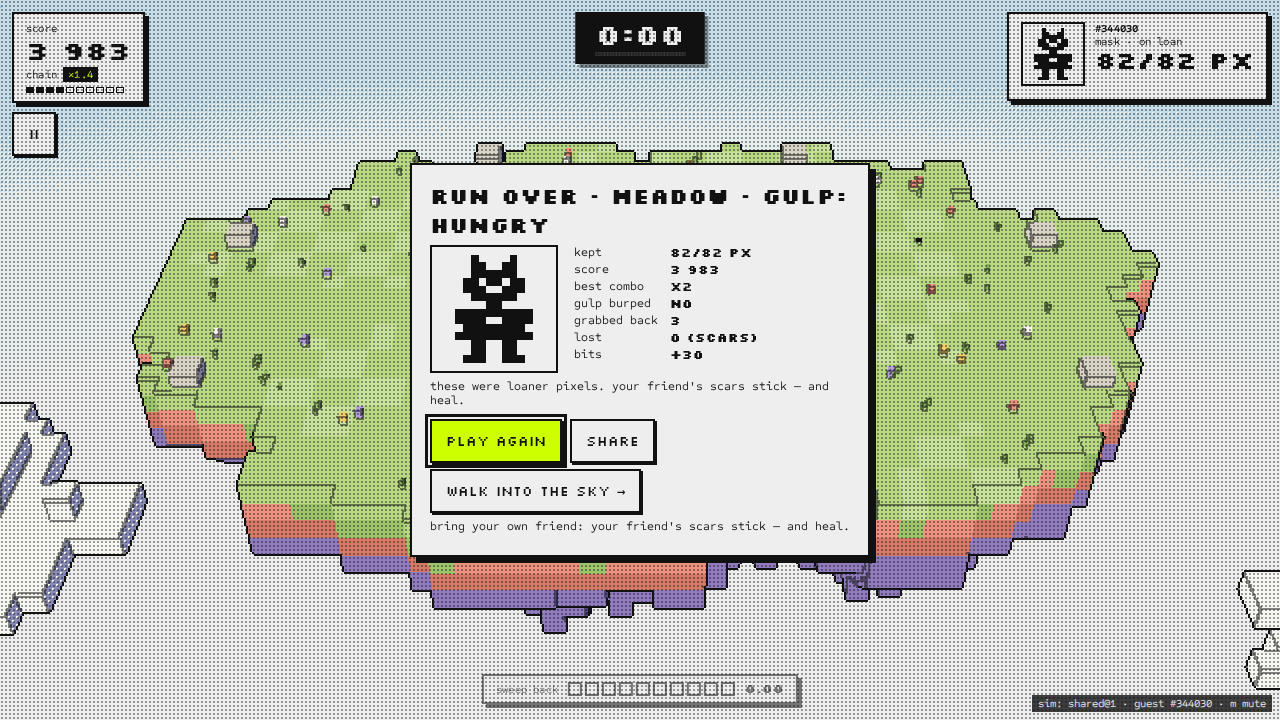
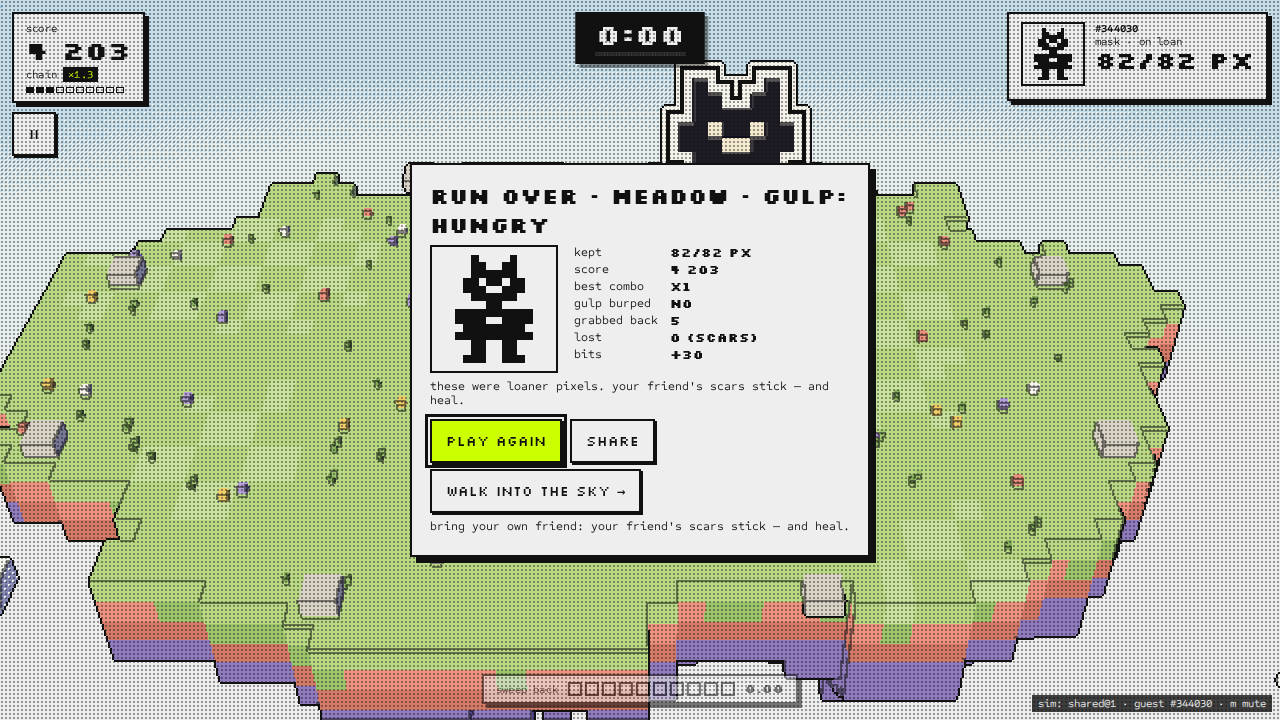
Dispatch pl:coach events for web coachmarks; phone HUD layout and portrait camera

diff --git a/apps/game/src/venues/pixel-life/venue.ts b/apps/game/src/venues/pixel-life/venue.ts
@@ -155,6 +155,11 @@ const BUBBLES: Readonly<Record<number, string>> = {
 const ACCENT_HEX = [0xed927e, 0xf2ce68, 0x7db4db, 0xb3a0d8, 0xb3a0d8, 0xf2ce68] as const;
 /** Camera focus offset toward the viewer (world units): keeps the island's far rim and the HUD apart. */
 const CAM_Z = 0.5;
+/** Window event the web shell's coachmarks listen to (apps/web onboarding `COACH_DOM_EVENT`). */
+export const COACH_DOM_EVENT = "pl:coach";
+/** Coach event names the venue reports (apps/web onboarding `COACH_EVENTS`). */
+export type CoachEvent =
+  "run:start" | "fling" | "pixels:loose" | "pixels:grabbed" | "pixels:scarred" | "pause" | "run:end";
 const BITE_TIPS_KEY = "loose-pixels:bite-tips";
 
 function runIdOf(): string {
@@ -310,6 +315,25 @@ async function mountVenue(host: VenueHost<GameStage>, opts: LoosePixelsOptions):
   // Callouts sit beside the Friend's head (frame 1: "−4 px" to its upper right), clear of the timer.
   const friendHead = (): ScreenPoint => project(tmp.copy(scene.friendPos).add(tmp2.set(1.7, 1.9, 0)));
 
+  // ── Coachmarks (web onboarding listens for `pl:coach` window events; unknown names are ignored) ─────────────────────
+  let coachTick = -1;
+  const coachSent = new Set<CoachEvent>();
+  const coach = (name: CoachEvent): void => {
+    // Pixel beats come in bursts (one event per pixel): report each name at most once per sim tick.
+    const tick = cur?.tick ?? -1;
+    if (tick !== coachTick) {
+      coachTick = tick;
+      coachSent.clear();
+    }
+    if (coachSent.has(name)) return;
+    coachSent.add(name);
+    try {
+      window.dispatchEvent(new CustomEvent(COACH_DOM_EVENT, { detail: name }));
+    } catch {
+      // No window (tests) or a host that forbids custom events: hints are optional.
+    }
+  };
+
   // ── Juice ─────────────────────────────────────────────────────────────────────────────────────────────────────────
   const juice = (plan: JuicePlan, at?: ScreenPoint): void => {
     const t = now();
@@ -345,6 +369,7 @@ async function mountVenue(host: VenueHost<GameStage>, opts: LoosePixelsOptions):
     };
     switch (e.type) {
       case "launch":
+        coach("fling");
         audio.cue("fling.release", { gain: 0.6 + ((e.b ?? 0) / 1023) * 0.6, x: pan() });
         scene.hop(time, (e.b ?? 0) / 1023);
         break;
@@ -372,6 +397,7 @@ async function mountVenue(host: VenueHost<GameStage>, opts: LoosePixelsOptions):
       }
       case "bite": {
         const px = e.b ?? 1;
+        coach("pixels:loose");
         beat({ kind: "bite", px });
         scene.squash(time);
         sayFriend(lossCallout(px));
@@ -391,6 +417,7 @@ async function mountVenue(host: VenueHost<GameStage>, opts: LoosePixelsOptions):
         audio.cue("pixel.pop", { x: pan() });
         break;
       case "pixelBack":
+        coach("pixels:grabbed");
         if (e.b === 1) {
           beat({ kind: "clutch" });
           sayFriend(grabCallout(true));
@@ -401,6 +428,7 @@ async function mountVenue(host: VenueHost<GameStage>, opts: LoosePixelsOptions):
         }
         break;
       case "pixelLost":
+        coach("pixels:scarred");
         audio.cue(e.b === EV.LOST_EDGE || e.b === EV.LOST_GULP ? "pixel.fall" : "pixel.lost", { x: pan() });
         break;
       case "edge":
@@ -768,6 +796,7 @@ async function mountVenue(host: VenueHost<GameStage>, opts: LoosePixelsOptions):
     if (state !== "run") return;
     if (p === paused && !(p === false && resumeAt > 0)) return;
     if (p) {
+      coach("pause");
       paused = true;
       resumeAt = 0;
       hud.setCountdown(0);
@@ -836,6 +865,7 @@ async function mountVenue(host: VenueHost<GameStage>, opts: LoosePixelsOptions):
     paused = false;
     resumeAt = 0;
     state = "run";
+    coach("run:start");
     audio.cue("run.start");
     audio.music?.play("run", seed);
     audio.music?.setIntensity(PHASE_INTENSITY[0]);
@@ -851,6 +881,7 @@ async function mountVenue(host: VenueHost<GameStage>, opts: LoosePixelsOptions):
   const endRun = (): void => {
     if (!sim || !cfg || !cur || state !== "run") return;
     state = "ending";
+    coach("run:end");
     aim = null;
     const summary = sim.summary();
     const inputs = log.inputs;
@@ -1116,7 +1147,10 @@ async function mountVenue(host: VenueHost<GameStage>, opts: LoosePixelsOptions):
     const b = body();
     if (b && state !== "results") {
       // While Old Gulp is up the camera favours the island centre so the whale and the whole rim stay in frame.
-      const k = reduced ? 0.15 : gulpUp ? 0.12 : 0.35;
+      // Portrait: the readability clamp (≥ 3 px per sprite pixel) can't fit the whole island in the width, so the camera
+      // leans harder toward the Friend to keep it (the thing you steer) on screen.
+      const portrait = canvas.clientWidth < canvas.clientHeight;
+      const k = reduced ? 0.15 : gulpUp ? 0.12 : portrait ? 0.55 : 0.35;
       stage.rig.follow(tmp.set((b.x + b.vx * 0.12) * U * k, 0, (b.z + b.vz * 0.12) * U * k + CAM_Z));
     }
     // Old Gulp: dolly out 12 % over 0.6 s (GDD §2.4), none under reduced motion (the static framing fits).

diff --git a/apps/game/src/venues/pixel-life/hud.ts b/apps/game/src/venues/pixel-life/hud.ts
@@ -101,7 +101,9 @@ const CSS = `
   padding:3px 8px;box-shadow:2px 2px 0 var(--ink)}
 @media (max-width:520px){.lp-score{min-width:0}.lp-score .lp-num{font-size:20px}.lp-timer .lp-num{font-size:20px}
   .lp-friend canvas{width:48px;height:48px}.lp-friend .lp-num{font-size:18px}.lp-friend .lp-meta{display:none}
-  .lp-sweep .lp-blocks i{width:10px;height:10px}.lp-sweep .lp-label{display:none}.lp-pause{top:96px}.lp-banner{font-size:28px}}
+  .lp-sweep .lp-blocks i{width:10px;height:10px}.lp-sweep .lp-label{display:none}.lp-banner{font-size:28px;top:36%}
+  .lp-timer{top:8px;padding:4px 12px}.lp-score,.lp-friend{top:60px}.lp-score{padding:6px 10px}.lp-friend{padding:6px 10px}
+  .lp-pause{top:150px}}
 `;
 
 /** Per-frame HUD state. */
